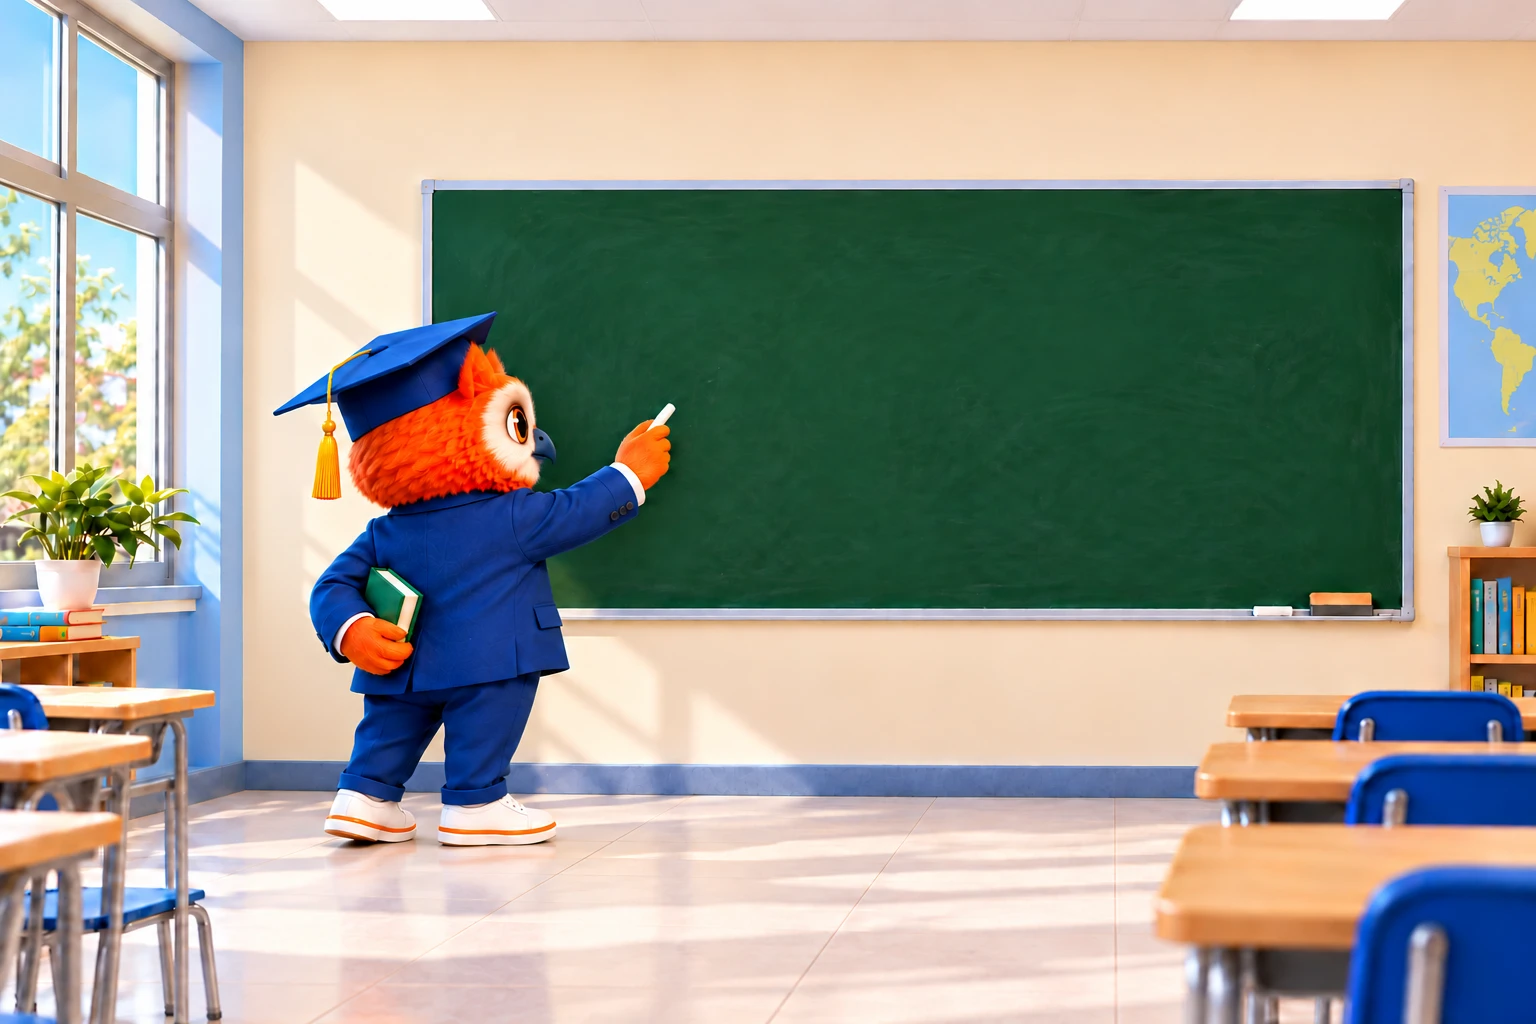
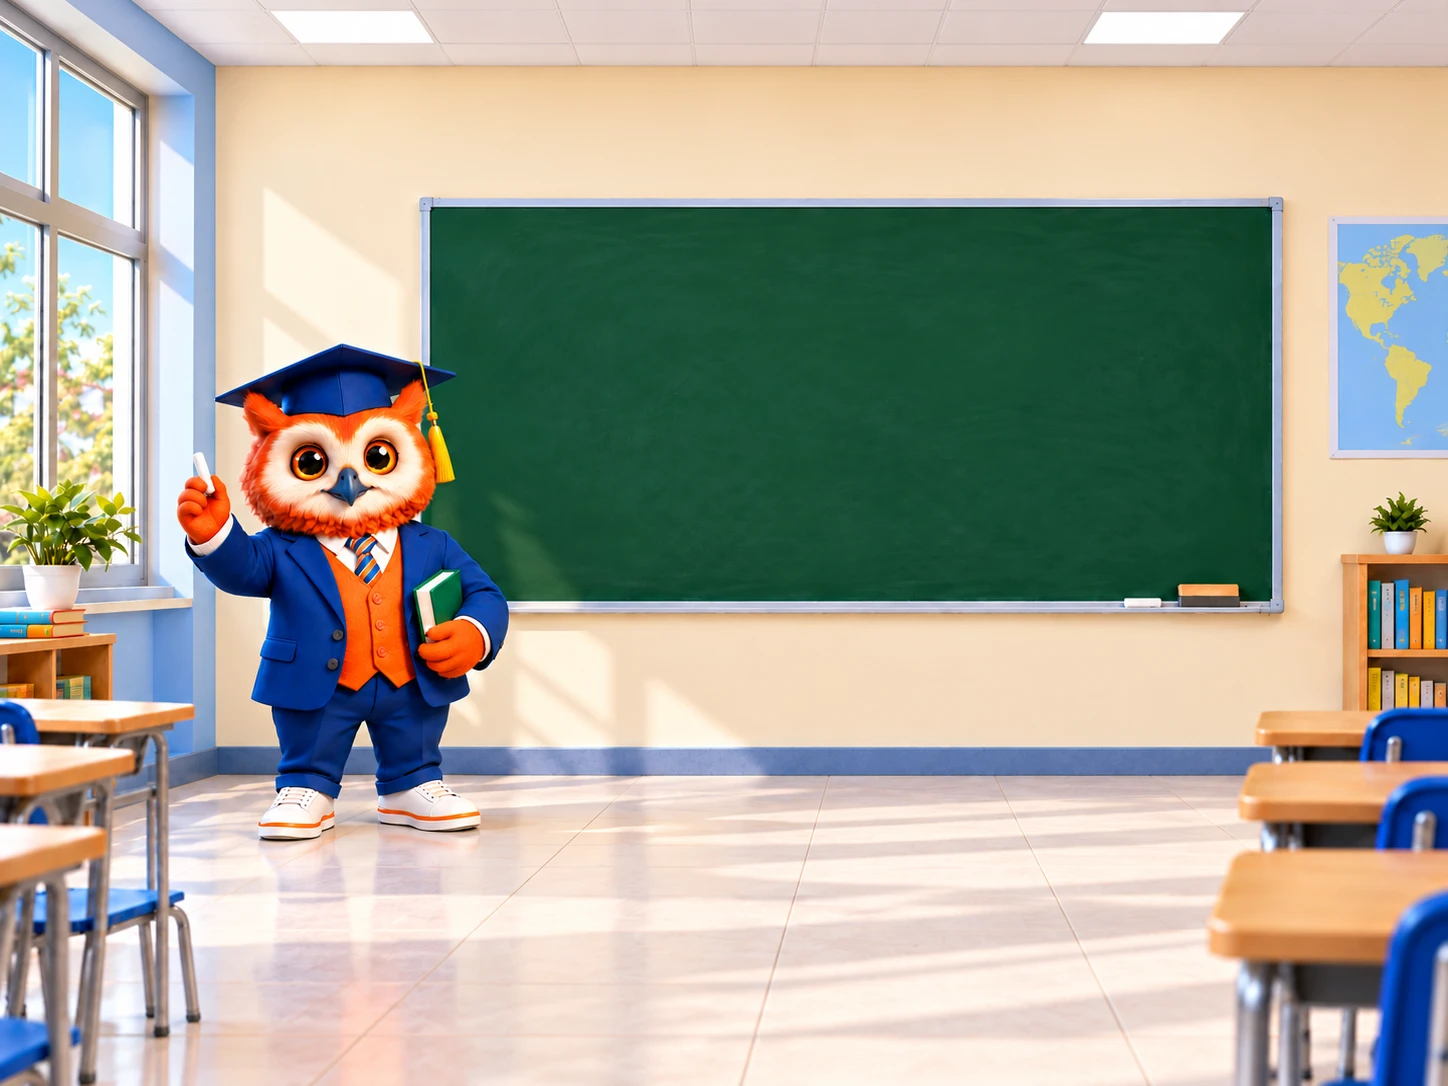
Início: painel de índices à esquerda + fundo 4:3
- Índices viram painel lateral "Visão geral da rede" com 7 cards na ordem:
  Escolas, Vagas ofertadas, Vagas disponíveis, Alunos, Responsáveis,
  Turmas, Servidores (ícones azul/laranja/verde).
- Quadro/busca/bubo na coluna da direita.
- Fundo trocado para imagem 4:3 (1448x1086), frame e overlay recalibrados
  (quadro centro 58,7%); sem distorção, melhor enquadramento na coluna.
- Pose "escrevendo" usa temporariamente a mesma imagem até a versão 4:3.

diff --git a/inicio2.html b/inicio2.html
@@ -98,13 +98,13 @@
     .ask-hint { font-size: 12px; color: var(--texto-suave); margin-top: 10px; }
 
     /* ---- palco do quadro (sala de aula) ---- */
-    .board-stage { position: relative; width: 100%; height: 100%; margin: 0; overflow: hidden; }
+    .board-stage { position: relative; flex: 1 1 0; min-width: 0; height: 100%; margin: 0; overflow: hidden; }
     /* frame com a proporção da imagem (3:2), dimensionado p/ cobrir a área toda — sem sobra */
-    .board-frame { position: absolute; top: 50%; left: 50%; transform: translate(-50%, -50%); width: max(100%, calc((100vh - 90px) * 1.5)); aspect-ratio: 3 / 2; }
+    .board-frame { position: absolute; top: 50%; left: 50%; transform: translate(-50%, -50%); width: max(100%, calc((100vh - 90px) * 1.333)); aspect-ratio: 4 / 3; }
     .board-bg { position: absolute; inset: 0; display: block; width: 100%; height: 100%; }
     .board-bg-write { opacity: 0; transition: opacity .4s ease; }         /* bubo escrevendo (aparece ao digitar) */
     .board-frame.writing .board-bg-write { opacity: 1; }
-    .board-area { position: absolute; top: 17%; left: 34.7%; right: 15.3%; bottom: 36%; display: flex; flex-direction: column; align-items: stretch; justify-content: center; gap: clamp(12px, 2.4vh, 24px); }
+    .board-area { position: absolute; top: 21%; left: 34.7%; right: 17.3%; bottom: 46%; display: flex; flex-direction: column; align-items: stretch; justify-content: center; gap: clamp(12px, 2.4vh, 24px); }
     .board-title { font-family: var(--font-display); font-weight: 800; font-size: clamp(17px, 2vw, 27px); color: #fff; text-align: center; text-shadow: 0 1px 6px rgba(0,0,0,.4); margin-bottom: 2px; }
     /* título azul ACIMA do quadro (na parede) */
     .board-heading { position: absolute; top: 11%; left: 28%; right: 9%; text-align: center; font-family: var(--font-display); font-weight: 800; font-size: clamp(18px, 2.1vw, 30px); color: var(--azul); text-shadow: 0 1px 2px rgba(255,255,255,.55); }
@@ -136,8 +136,26 @@
     .board-results .res-nome { color: var(--texto); font-weight: 700; line-height: 1.2; }
     .board-results .res-sub { color: var(--texto-suave); font-size: 13px; margin-top: 1px; }
     .board-results .res-empty { padding: 14px 16px; color: var(--texto-suave); }
+    /* layout: painel de índices à esquerda + quadro à direita */
+    .inicio-layout { display: flex; height: 100%; }
+    .kpi-panel { flex-shrink: 0; width: clamp(240px, 23vw, 322px); background: #f5f8fc; border-right: 1px solid var(--borda); padding: 22px 18px; overflow-y: auto; }
+    .kpi-panel-title { font-family: var(--font-display); font-weight: 800; font-size: clamp(17px, 1.5vw, 21px); color: var(--azul-escuro); }
+    .kpi-panel-sub { font-size: 13px; color: var(--texto-suave); margin-top: 2px; }
+    .kpi-cards { display: flex; flex-direction: column; gap: 12px; margin-top: 18px; }
+    .kpi-card { display: flex; align-items: center; gap: 14px; background: #fff; border: 1px solid var(--borda); border-radius: 14px; padding: 13px 15px; box-shadow: 0 4px 14px rgba(15,23,32,.05); }
+    .kpi-ic { width: 44px; height: 44px; border-radius: 12px; display: flex; align-items: center; justify-content: center; flex-shrink: 0; }
+    .kpi-ic.azul { background: var(--azul-claro); color: var(--azul); }
+    .kpi-ic.laranja { background: var(--laranja-bg); color: var(--laranja); }
+    .kpi-ic.verde { background: var(--verde-bg); color: var(--verde); }
+    .kpi-card .kv { font-family: var(--font-display); font-weight: 800; font-size: clamp(20px, 1.8vw, 25px); color: var(--texto); line-height: 1; }
+    .kpi-card .kl { font-size: 13px; color: var(--texto-suave); margin-top: 3px; }
+
     @media (max-width: 860px){
       .view-wrap > .content { height: auto; }
+      .inicio-layout { flex-direction: column; height: auto; }
+      .kpi-panel { width: auto; border-right: none; border-bottom: 1px solid var(--borda); }
+      .kpi-cards { flex-direction: row; flex-wrap: wrap; }
+      .kpi-card { flex: 1 1 140px; }
       .board-stage { height: auto; }
       .board-frame { position: static; transform: none; width: 100%; aspect-ratio: auto; }
       .board-bg { position: static; height: 160px; object-fit: cover; object-position: 30% 38%; }
@@ -337,6 +355,12 @@
 
   <div class="view-wrap">
     <div class="content">
+     <div class="inicio-layout">
+      <aside class="kpi-panel">
+        <div class="kpi-panel-title">Visão geral da rede</div>
+        <div class="kpi-panel-sub">Indicadores da rede municipal</div>
+        <div class="kpi-cards" id="kpiBar"></div>
+      </aside>
       <div class="board-stage">
        <div class="board-frame" id="boardFrame">
         <img class="board-bg" src="assets/fundo-sala.webp" alt="Sala de aula com o Bubo" />
@@ -351,6 +375,7 @@
         </div>
        </div>
       </div>
+     </div>
 
     </div>
 
@@ -413,6 +438,22 @@ function buboSet(up){ const el = document.getElementById('heroBubo'); if(el) el.
     <div class="hero-card h${i+1}"><div class="kcard-l"><div class="kic ic-${k.c}">${svgP(k.p,21)}</div>
       <div><div class="klbl">${k.l}</div><div class="ksub">${k.s}</div></div></div>
       <div class="kval">${k.v}</div></div>`).join(''));
+
+  /* painel de índices da rede (à esquerda) */
+  const pVagas = '<rect x="3" y="3" width="18" height="18" rx="2"/><path d="M3 9h18"/><path d="M9 21V9"/>';
+  const pTurmas = '<rect x="3" y="4" width="18" height="14" rx="2"/><line x1="3" y1="10" x2="21" y2="10"/>';
+  const pDisp = '<path d="M16 21v-2a4 4 0 00-4-4H6a4 4 0 00-4 4v2"/><circle cx="9" cy="7" r="4"/><line x1="19" y1="8" x2="19" y2="14"/><line x1="22" y1="11" x2="16" y2="11"/>';
+  const KPI = [
+    { l:'Escolas', v:nEsc, c:'azul', p:ICON_ESC },
+    { l:'Vagas ofertadas', v:vagas, c:'laranja', p:pVagas },
+    { l:'Vagas disponíveis', v:disp, c:'verde', p:pDisp },
+    { l:'Alunos', v:alunos, c:'laranja', p:iAlunos },
+    { l:'Responsáveis', v:resp, c:'azul', p:iUsers },
+    { l:'Turmas', v:turmas, c:'azul', p:pTurmas },
+    { l:'Servidores', v:usuarios, c:'laranja', p:iUsers },
+  ];
+  const kb = document.getElementById('kpiBar');
+  if(kb) kb.innerHTML = KPI.map(k=> `<div class="kpi-card"><div class="kpi-ic ${k.c}">${svgP(k.p,22)}</div><div><div class="kv">${fmt(k.v)}</div><div class="kl">${k.l}</div></div></div>`).join('');
 })();
 
 /* ---- busca de escola ---- */
